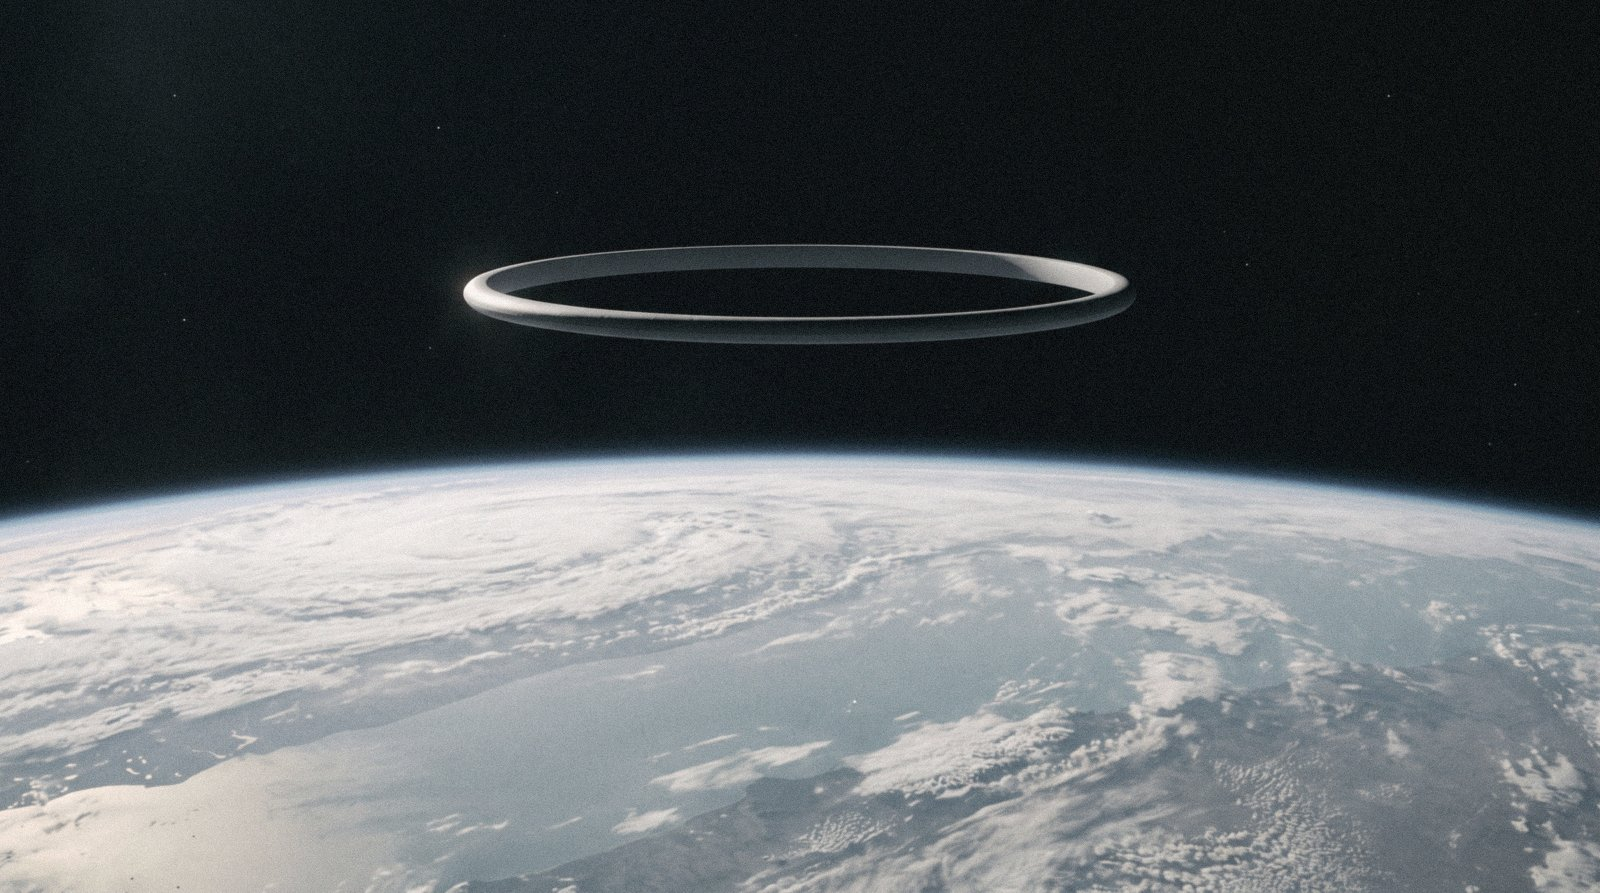
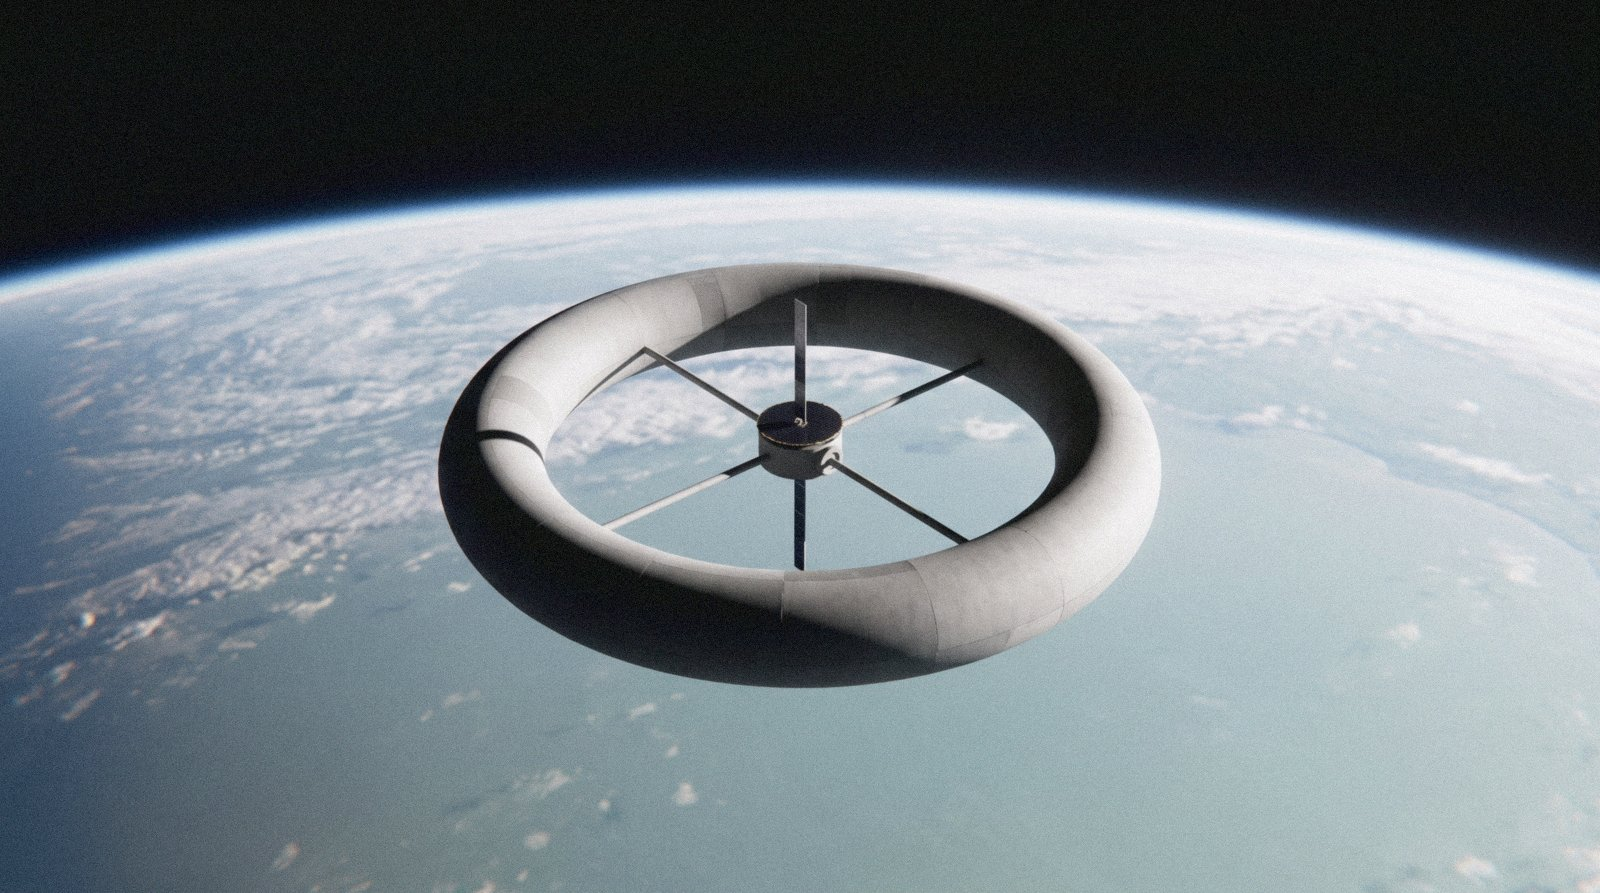
Re-make Greenward against sheet D
The Hulls and Habitats register flagged Greenward as the only picture
owing the starship-design loop. Prompt rewritten to sheet D; Dermot
picked variation 4, whose radiator stands along the hub axis. The
extractor's rule now records the picture as agreeing.

diff --git a/scripts/extract-designs.js b/scripts/extract-designs.js
@@ -117,7 +117,7 @@ const DESIGNS = [
     era: { text: "not dated on its page", quote: "is a single ring in a high circular orbit above Verdance" },
     sources: [["src/lore/greenward-habitat.md", "is a single ring in a high circular orbit above Verdance"]],
     page: true,
-    images: [{ path: "lore/greenward-habitat.jpg", check: "predates", evidence: [IMAGES_FILE, "No ships, no shuttles, no docking structure, no people", "the ring is small against the world, which is the physics"], note: "Generated 7 October 2026 from a prompt of 19 August that names none of sheet D's figures (a hub with docking, spokes, 300 to 400 m at 2 to 2.5 rpm) and negates a docking structure; not re-made since." }],
+    images: [{ path: "lore/greenward-habitat.jpg", check: "agrees", evidence: [IMAGES_FILE, "the only one whose radiator stands along the hub axis"], note: "Re-made 19 October 2026 through the starship-design loop against sheet D: four spokes, a non-rotating hub, a radiator along its axis, nothing docked; filed at Dermot's pick." }],
   },
   {
     id: "guest-ring", name: "The Guest Ring", kind: "ring", sheet: "D", principles: [6],

diff --git a/story-bible/images.md b/story-bible/images.md
@@ -3730,7 +3730,9 @@ image parts, for light and weather and never for content.
 
 - **`greenward-habitat.jpg`** — *a single ring in a high circular orbit, holding two hundred and forty people, most of whom will never set foot on the world beneath them.*
   The anchor is the non-descent clause made visible: the ring and the world in one frame, and nothing between them. No surface detail that could be read as a landing site; the world is a green disc with weather on it and the ring is small against it.
-  > Documentary photograph taken inside the world by a 29th-century camera, available light, muted colour, documentary realism, nothing dramatic, realistic, still, slightly too empty. A single slender habitat ring, plain matte grey composite with no markings, seen from a little way off against the limb of a living green world eight thousand kilometres below, the planet filling the lower half of the frame with cloud bands and a pale ocean, the ring small and exact in the upper half, in sunlight from the side so that one edge of the ring is lit and the rest is in its own shadow. The ring is unlit, no windows glowing, no lights on its hull. Deep black beyond. No ships, no shuttles, no docking structure, no people, no surface lights on the planet, no flags, no emblem, no lettering. Realistic orbital photograph, nothing dramatic, the distance between the two the whole subject. Negative: readable text, lettering, numerals, signage, labels, branding or written characters of any script anywhere in frame; holograms, projected light, glowing displays, screens, monitors, consoles, dials, gauges, meters, knobs, toggles, tube screens, exposed cables, tablets, laptops; visible lamp, light fitting or bulb; flat studio backdrop, gradient background, glamour lighting, corporate headshot, posed smiling to camera; weapons. spaceship, shuttle, docking arm, lens flare, nebula, stars rendered large, sci-fi gloss.
+  > Documentary photograph taken inside the world by a 29th-century camera, from a survey craft holding station a few kilometres off, available light, 16:9 landscape, muted natural colour, still, slightly too empty: Greenward, a single-ring habitat for two hundred and forty people in a high circular orbit, eight thousand kilometres above a living green world. The ring is about three hundred and fifty metres across, a plain matte grey composite torus with honest panel seams, patched in a few greys, no markings, no window band, nothing lit, turning slowly (about two turns a minute, so it reads as still). Four thin straight spokes join it to a small non-rotating hub at its centre. The hub's axis points at the sun: on its sunward face a single flat dark disc of solar collectors, and from its shaded side four thin flat radiator panels stand straight out along the axis, edge-on to the sun so they show as lines. At the far end of the hub, one plain closed docking port, round and flush, with nothing docked at it. The sun lights the whole station from one side, so one face of the ring is bright and the rest is in its own shadow. Below and beyond, the planet fills the lower half of the frame as a curved limb with cloud bands and a pale ocean, no city lights and nothing built on it; the ring is small and exact against it, and the gulf between them is the subject. Deep black above. Photographed, not rendered: a real lens, slight softness toward the corners, fine high-ISO grain in the black, a touch under-exposed. Negative: solar panels on the ring or on the spokes, panels inside the ring, wings of solar panels, a lit flank, window band, glowing windows, running lights, engine glow, spaceship, shuttle, landing craft, docking arm, anything docked, tether, cable to the ground, space elevator, sleek hull, fins, antenna forest, painted name, lens flare, nebula, large rendered stars, sci-fi gloss; readable text, lettering, numerals, signage, labels, branding or written characters of any script anywhere in frame; holograms, projected light; weapons. Render negatives: 3D render, CGI, octane render, video-game render, concept art, plastic sheen, over-smooth surfaces. Landscape orientation.
+  - *(Revised 19 October 2026, Opus, through the starship-design loop at Dermot's word: the Hulls and Habitats register flagged this as the only picture still disagreeing with its sheet. The 19 August prompt named none of sheet D's figures and asked for "no docking structure", while sheet D gives a hub with docking and spokes. Now written to the sheet: a 350 m ring for 240 people at about two turns a minute, four spokes, a non-rotating hub whose axis points at the sun, collectors on its sunward face, radiators edge-on from its shaded side, and one closed docking port with nothing at it. The non-descent clause is kept by having nothing docked, no landing craft and nothing joining it to the ground. A docking port is for orbit and says nothing about going down.)*
+  - *(Filed 19 October 2026 at Dermot's pick, variation 4 of 4, the only one whose radiator stands along the hub axis. Panels in the ring's plane, as in 1 and 3, would be swept by the turning spokes. Imported at 1,600 px, finish strength 1. The Hulls and Habitats register should now show Greenward as agreeing with sheet D.)*
   - **The clause is the picture.** A shuttle or a docking arm would say the ring can go down. It cannot.
   - **Delivered 7 October 2026**, variation 1 of 2 (`gemini-3.1-flash-image`, 2K), through `import-image.ps1` at finish strength 1: the ring is small against the world, which is the physics; 2 made the ring larger than the planet.
 

diff --git a/CHANGELOG.md b/CHANGELOG.md
@@ -6,6 +6,7 @@ The format loosely follows [Keep a Changelog](https://keepachangelog.com/en/1.1.
 
 ## [Unreleased]
 
+- **Greenward re-made against its blueprint sheet** (`src/images/lore/greenward-habitat.jpg`, `src/lore/greenward-habitat.md`, `story-bible/images.md`, 2026-10-19, Dermot's pick). The Hulls and Habitats register flagged it as the only picture still disagreeing with its sheet. It now shows sheet D's ring for 240 people, with four spokes to a non-rotating hub, a radiator along the hub's axis, nothing docked and nothing joining it to the ground.
 - **A fifth derived artefact: station and starship designs** (`scripts/extract-designs.js`, `test/extract-designs.test.js`, `CLAUDE.md`, `TECHNICAL-README.md`, 2026-10-19, at Dermot's *"keep track of station and starship designs - make an artefact if needed"*). The script lists every station, habitat, ring, platform, ark and ship the record names. For each it gives the governing sheet in `story-bible/starship-design.md` and the sheet's spin, power, heat and drive lines. It also says whether the picture was made against the sheet, from `story-bible/images.md`. Its readings are a rule table checked against quotes from the record. *Cutting a release* now regenerates five artefacts.
 - **Habitat Threshold and Frontier Transformation Protocols have no images now** (`src/lore/habitat-threshold.md`, `src/lore/frontier-transformation-protocols.md`, both images removed, `story-bible/images.md`, 2026-10-19, Dermot's choice). One page is a law and the other a doctrine, which the 7 October rule leaves without images. The Threshold frame also put a solar panel inside the ring, against the ring sheet, and the Frontier frame was an Earth valley with a present-day survey stake.
 - **Cirrane and Bubochka re-made** (`src/images/lore/planets/cirrane.jpg`, `src/images/characters/bubochka.jpg`, `bubochka-alert.jpg`, `src/lore/planets/cirrane.md`, `src/characters/bubochka.md`, `story-bible/images.md`, 2026-10-19, Dermot's picks). Cirrane's frame was Jupiter in all but name, down to a Great Red Spot. It is now seen from inside the haze of Freyari, with no storm and no disc. Bubochka was in a home kitchen; she is now in the bureau's filing room, where her page puts her, and in her sleeping basket in a niche of the record-drawer wall. Alt texts match the new frames.

diff --git a/src/lore/greenward-habitat.md b/src/lore/greenward-habitat.md
@@ -5,7 +5,7 @@ category: "Locations"
 tags: [greenward, verdance, calyx-system, federation-of-sentient-beings, space-habitat, reciprocal-instrument, star-rangers, locations, human]
 description: "The human habitat in orbit around Verdance — one half of a reciprocal instrument with the Federation of Sentient Beings, and the half whose occupants could go down if the rule were only about air."
 image: "greenward-habitat.jpg"
-image_alt: "A single slender habitat ring, small and unlit, hanging above the cloud-banded limb of a blue-white world, the distance between the two the whole picture"
+image_alt: "Greenward, a plain grey habitat ring turning above the cloud-banded limb of a green and blue world, four thin spokes running in to a small central hub, with one flat radiator panel standing straight out from the hub along its axis; nothing docked, nothing lit, and nothing joining it to the ground"
 galaxy: "Milky Way"
 system: "Calyx System"
 locationType: "Habitat"
